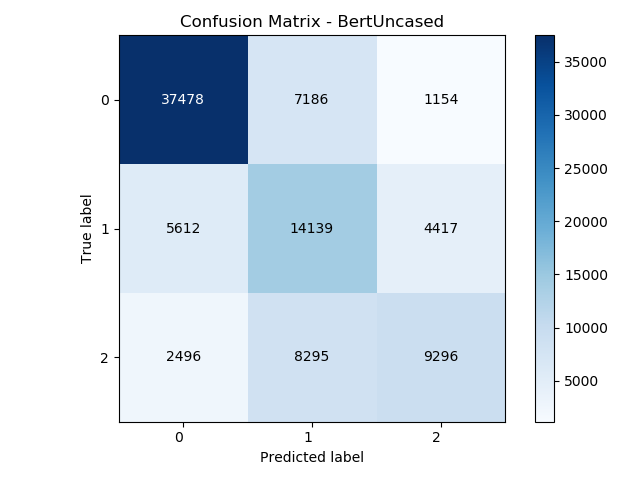
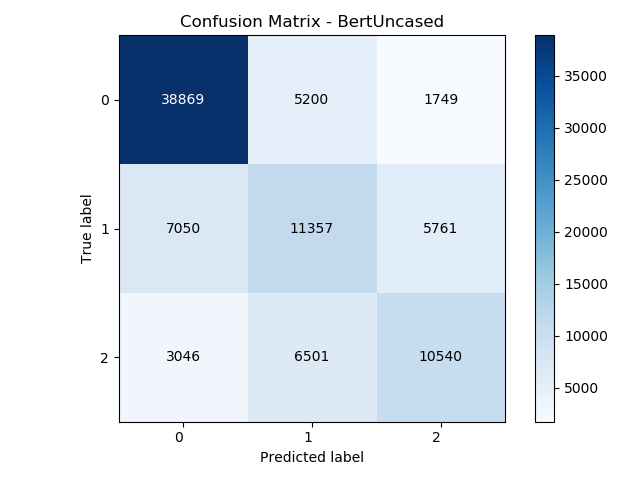
confusion matrix

diff --git a/main.py b/main.py
@@ -265,21 +265,21 @@ def valid(model, iterator, criterion, tag_to_index, index_to_tag, device, config
             tagslice = tags.split()
             predsslice = preds
         for t, p in zip(tagslice, predsslice):
-            true.append(tag_to_index[t])
-            predictions.append(tag_to_index[p])
+            true.append(t)
+            predictions.append(p)
 
     # calc metric
 
-    # y_true = np.array(true)
-    # y_pred = np.array(predictions)
+    y_true = np.array(true)
+    y_pred = np.array(predictions)
     # acc = 100. * (y_true == y_pred).astype(np.int32).sum() / len(y_true)
 
-    true_labels = np.array([index_to_tag[index] for index in true])
-    predicted_labels = np.array([index_to_tag[index] for index in predictions])
+    #true_labels = np.array([index_to_tag[index] for index in true])
+    #predicted_labels = np.array([index_to_tag[index] for index in predictions])
 
-    accuracy = accuracy_score(true_labels, predicted_labels)
+    accuracy = accuracy_score(y_true, y_pred)
 
-    print('Validation accuracy: {:<5.2f}%, Validation loss: {:<.4f}\n'.format(round(accuracy, 2), np.mean(dev_losses)))
+    print('Validation accuracy: {:<5.2f}%, Validation loss: {:<.4f}\n'.format(round(100. * accuracy, 2), np.mean(dev_losses)))
 
 
 def test(model, iterator, criterion, tag_to_index, index_to_tag, device, config):
@@ -333,27 +333,27 @@ def test(model, iterator, criterion, tag_to_index, index_to_tag, device, config)
                 wordslice = words.split()
             for w, t, p in zip(wordslice, tagslice, predsslice):
                 results.write("{}\t{}\t{}\n".format(w, t, p))
-                true.append(tag_to_index[t])
-                predictions.append(tag_to_index[p])
+                true.append(t)
+                predictions.append(p)
             results.write("\n")
 
     # calc metric
-    # y_true = np.array(true)
-    # y_pred = np.array(predictions)
+    y_true = np.array(true)
+    y_pred = np.array(predictions)
 
-    true_labels = np.array([index_to_tag[index] for index in true])
-    predicted_labels = np.array([index_to_tag[index] for index in predictions])
+    #y_true = np.array([index_to_tag[index] for index in true])
+    #y_pred = np.array([index_to_tag[index] for index in predictions])
 
     classes = ['0', '1', '2'] if config.ignore_punctuation else ['0', '1', '2', 'NA']
 
     np.set_printoptions(precision=1)
-    plot_confusion_matrix(true_labels, predicted_labels, classes, title='Confusion Matrix - ' + config.model)
+    plot_confusion_matrix(y_true, y_pred, classes, title='Confusion Matrix - ' + config.model)
     plt.savefig('confusion_matrix-'+ config.model+'.png')
 
-    accuracy = accuracy_score(true_labels, predicted_labels)
-    f1 = f1_score(true_labels, predicted_labels, average='macro')
-    recall = recall_score(true_labels, predicted_labels, average='macro')
-    precision = precision_score(true_labels, predicted_labels, average='macro')
+    accuracy = accuracy_score(y_true, y_pred)
+    f1 = f1_score(y_true, y_pred, average='macro')
+    recall = recall_score(y_true, y_pred, average='macro')
+    precision = precision_score(y_true, y_pred, average='macro')
 
 
     print('\nAccuracy: {}'.format(round(100. * accuracy, 2)))
@@ -361,7 +361,7 @@ def test(model, iterator, criterion, tag_to_index, index_to_tag, device, config)
     print('Recall: {}'.format(round(100. * recall, 2)))
     print('Precision: {}'.format(round(100. * precision, 2)))
 
-    print(classification_report(true_labels, predicted_labels))
+    print(classification_report(y_true, y_pred))
 
     # acc = 100. * (y_true == y_pred).astype(np.int32).sum() / len(y_true)
     # print('Test accuracy: {:<5.2f}%, Test loss: {:<.4f} after {} epochs.\n'.format(round(acc, 2), np.mean(test_losses), config.epochs))

diff --git a/README.md b/README.md
@@ -100,6 +100,15 @@ Atlas 2 2
 
 ![Bert-uncased](images/confusion_matrix-BertUncased.png)
 
+
+|            | precision |   recall | f1-score  | support |
+| ---        | ---       |  ---     | ---       | ---     |
+|         0  |     0.79  |    0.85  |    0.82   |  45818  |
+|         1  |     0.49  |    0.47  |    0.48   |  24168  |
+|         2  |     0.58  |    0.52  |    0.55   |  20087  |
+| ---        | ---       |  ---     | ---       | ---     |
+| avg / total|     0.67  |    0.67  |    0.67   |  90073  |
+
 ## TODO
 
 * BERT (DONE)
